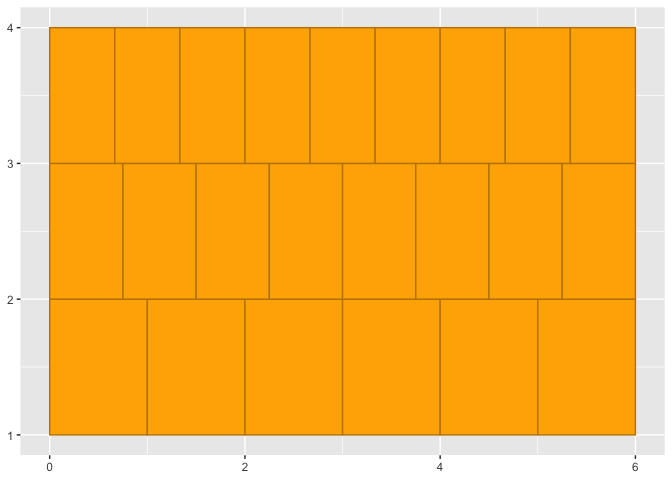
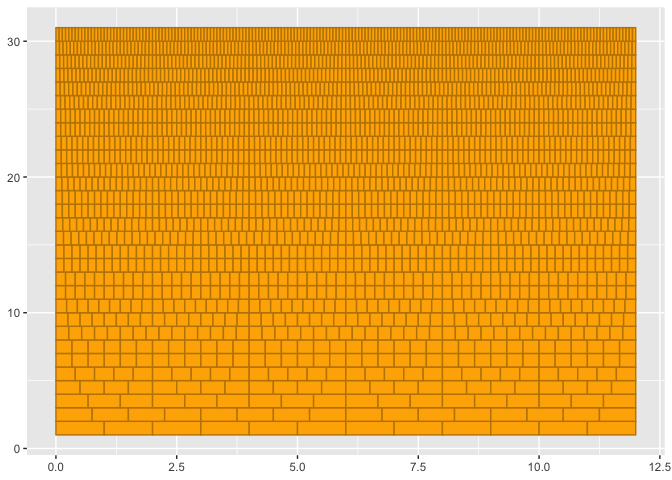
period estimates lok good now

diff --git a/Ratios-and-Inversions.md b/Ratios-and-Inversions.md
@@ -9,35 +9,89 @@ Frequency and Wavelength Relative Periodicity
 
 #### Spatial Estimate
 
-| tol_l |     min_l | lcd_l |  chord_l |  chord_T |
-|------:|----------:|------:|---------:|---------:|
-|   0.1 | 0.8750102 |     4 | 3.500041 | 0.015289 |
+| tol_l |  min_l_m | lcd_l_Sz | chord_l_m | chord_T_s |
+|------:|---------:|---------:|----------:|----------:|
+|   0.1 | 0.087501 |       60 |  5.250061 | 0.0153063 |
 
 ![](Ratios-and-Inversions_files/figure-gfm/unnamed-chunk-3-1.png)<!-- -->
 
 ### Wavelength Ratios
 
-| index | num | den |    ratio |      tone | reference_tone |
-|------:|----:|----:|---------:|----------:|---------------:|
-|     3 |   1 |   1 | 1.000000 | 0.8750102 |      0.8750102 |
-|     2 |   5 |   4 | 1.189207 | 1.0405683 |      0.8750102 |
-|     1 |   3 |   2 | 1.498307 | 1.3110340 |      0.8750102 |
+| index | num | den |     ratio |      tone | reference_tone |
+|------:|----:|----:|----------:|----------:|---------------:|
+|    30 |   1 |   1 |  1.000000 | 0.0875010 |       0.087501 |
+|    29 |   6 |   5 |  1.111111 | 0.0972234 |       0.087501 |
+|    28 |   5 |   4 |  1.189207 | 0.1040568 |       0.087501 |
+|    27 |   4 |   3 |  1.250000 | 0.1093763 |       0.087501 |
+|    26 |   4 |   3 |  1.321341 | 0.1156187 |       0.087501 |
+|    25 |   3 |   2 |  1.428571 | 0.1250015 |       0.087501 |
+|    24 |   3 |   2 |  1.486509 | 0.1300710 |       0.087501 |
+|    23 |   3 |   2 |  1.498307 | 0.1311034 |       0.087501 |
+|    22 |   5 |   3 |  1.664786 | 0.1456704 |       0.087501 |
+|    21 |   5 |   3 |  1.666667 | 0.1458350 |       0.087501 |
+|    20 |   5 |   3 |  1.698867 | 0.1486526 |       0.087501 |
+|    19 |   9 |   5 |  1.872884 | 0.1638792 |       0.087501 |
+|    18 |   2 |   1 |  1.982012 | 0.1734281 |       0.087501 |
+|    17 |   2 |   1 |  2.000000 | 0.1750020 |       0.087501 |
+|    16 |  11 |   5 |  2.140439 | 0.1872906 |       0.087501 |
+|    15 |   7 |   3 |  2.378414 | 0.2081137 |       0.087501 |
+|    14 |   5 |   2 |  2.497178 | 0.2185057 |       0.087501 |
+|    13 |   5 |   2 |  2.500000 | 0.2187525 |       0.087501 |
+|    12 |   3 |   1 |  2.973018 | 0.2601421 |       0.087501 |
+|    11 |   3 |   1 |  2.996614 | 0.2622068 |       0.087501 |
+|    10 |  10 |   3 |  3.333333 | 0.2916701 |       0.087501 |
+|     9 |  11 |   3 |  3.745768 | 0.3277585 |       0.087501 |
+|     8 |   4 |   1 |  3.964024 | 0.3468561 |       0.087501 |
+|     7 |   5 |   1 |  4.994357 | 0.4370113 |       0.087501 |
+|     6 |   5 |   1 |  5.000000 | 0.4375051 |       0.087501 |
+|     5 |   6 |   1 |  5.946035 | 0.5202842 |       0.087501 |
+|     4 |  15 |   2 |  7.491535 | 0.6555170 |       0.087501 |
+|     3 |  10 |   1 | 10.000000 | 0.8750102 |       0.087501 |
+|     2 |  59 |   5 | 11.892071 | 1.0405683 |       0.087501 |
+|     1 |  15 |   1 | 14.983071 | 1.3110340 |       0.087501 |
 
 #### Temporal Estimate
 
-| tol_T |    min_T | lcd_T |  chord_T |
-|------:|---------:|------:|---------:|
-|   0.1 | 261.6256 |     6 | 1569.753 |
+| tol_T | min_f_Hz | lcd_f_Sz | chord_f_Hz |   chord_T |
+|------:|---------:|---------:|-----------:|----------:|
+|   0.1 | 261.6256 |       12 |   21.80213 | 0.0458671 |
 
 ![](Ratios-and-Inversions_files/figure-gfm/unnamed-chunk-6-1.png)<!-- -->
 
 ### Frequency Ratios
 
-| index | num | den |    ratio |     tone | reference_tone |
-|------:|----:|----:|---------:|---------:|---------------:|
-|     1 |   1 |   1 | 1.000000 | 261.6256 |       261.6256 |
-|     2 |   4 |   3 | 1.259921 | 329.6276 |       261.6256 |
-|     3 |   3 |   2 | 1.498307 | 391.9954 |       261.6256 |
+| index | num | den |     ratio |      tone | reference_tone |
+|------:|----:|----:|----------:|----------:|---------------:|
+|     1 |   1 |   1 |  1.000000 |  261.6256 |       261.6256 |
+|     2 |   4 |   3 |  1.259921 |  329.6276 |       261.6256 |
+|     3 |   3 |   2 |  1.498307 |  391.9954 |       261.6256 |
+|     4 |   2 |   1 |  2.000000 |  523.2511 |       261.6256 |
+|     5 |   5 |   2 |  2.519842 |  659.2551 |       261.6256 |
+|     6 |   3 |   1 |  2.996614 |  783.9909 |       261.6256 |
+|     7 |   3 |   1 |  3.000000 |  784.8767 |       261.6256 |
+|     8 |  15 |   4 |  3.779763 |  988.8827 |       261.6256 |
+|     9 |   4 |   1 |  4.000000 | 1046.5023 |       261.6256 |
+|    10 |   9 |   2 |  4.494921 | 1175.9863 |       261.6256 |
+|    11 |   5 |   1 |  5.000000 | 1308.1278 |       261.6256 |
+|    12 |   5 |   1 |  5.039684 | 1318.5102 |       261.6256 |
+|    13 |   6 |   1 |  5.993228 | 1567.9817 |       261.6256 |
+|    14 |   6 |   1 |  6.000000 | 1569.7534 |       261.6256 |
+|    15 |  19 |   3 |  6.299605 | 1648.1378 |       261.6256 |
+|    16 |   7 |   1 |  7.000000 | 1831.3790 |       261.6256 |
+|    17 |  15 |   2 |  7.491535 | 1959.9772 |       261.6256 |
+|    18 |  15 |   2 |  7.559526 | 1977.7653 |       261.6256 |
+|    19 |   8 |   1 |  8.000000 | 2093.0045 |       261.6256 |
+|    20 |  35 |   4 |  8.819447 | 2307.3929 |       261.6256 |
+|    21 |   9 |   1 |  8.989842 | 2351.9726 |       261.6256 |
+|    22 |   9 |   1 |  9.000000 | 2354.6301 |       261.6256 |
+|    23 |  10 |   1 | 10.000000 | 2616.2556 |       261.6256 |
+|    24 |  10 |   1 | 10.079368 | 2637.0205 |       261.6256 |
+|    25 |  21 |   2 | 10.488150 | 2743.9680 |       261.6256 |
+|    26 |  34 |   3 | 11.339289 | 2966.6480 |       261.6256 |
+|    27 |  12 |   1 | 11.986457 | 3135.9635 |       261.6256 |
+|    28 |  25 |   2 | 12.599210 | 3296.2755 |       261.6256 |
+|    29 |  27 |   2 | 13.484764 | 3527.9589 |       261.6256 |
+|    30 |  15 |   1 | 14.983071 | 3919.9543 |       261.6256 |
 
 #### References
 
